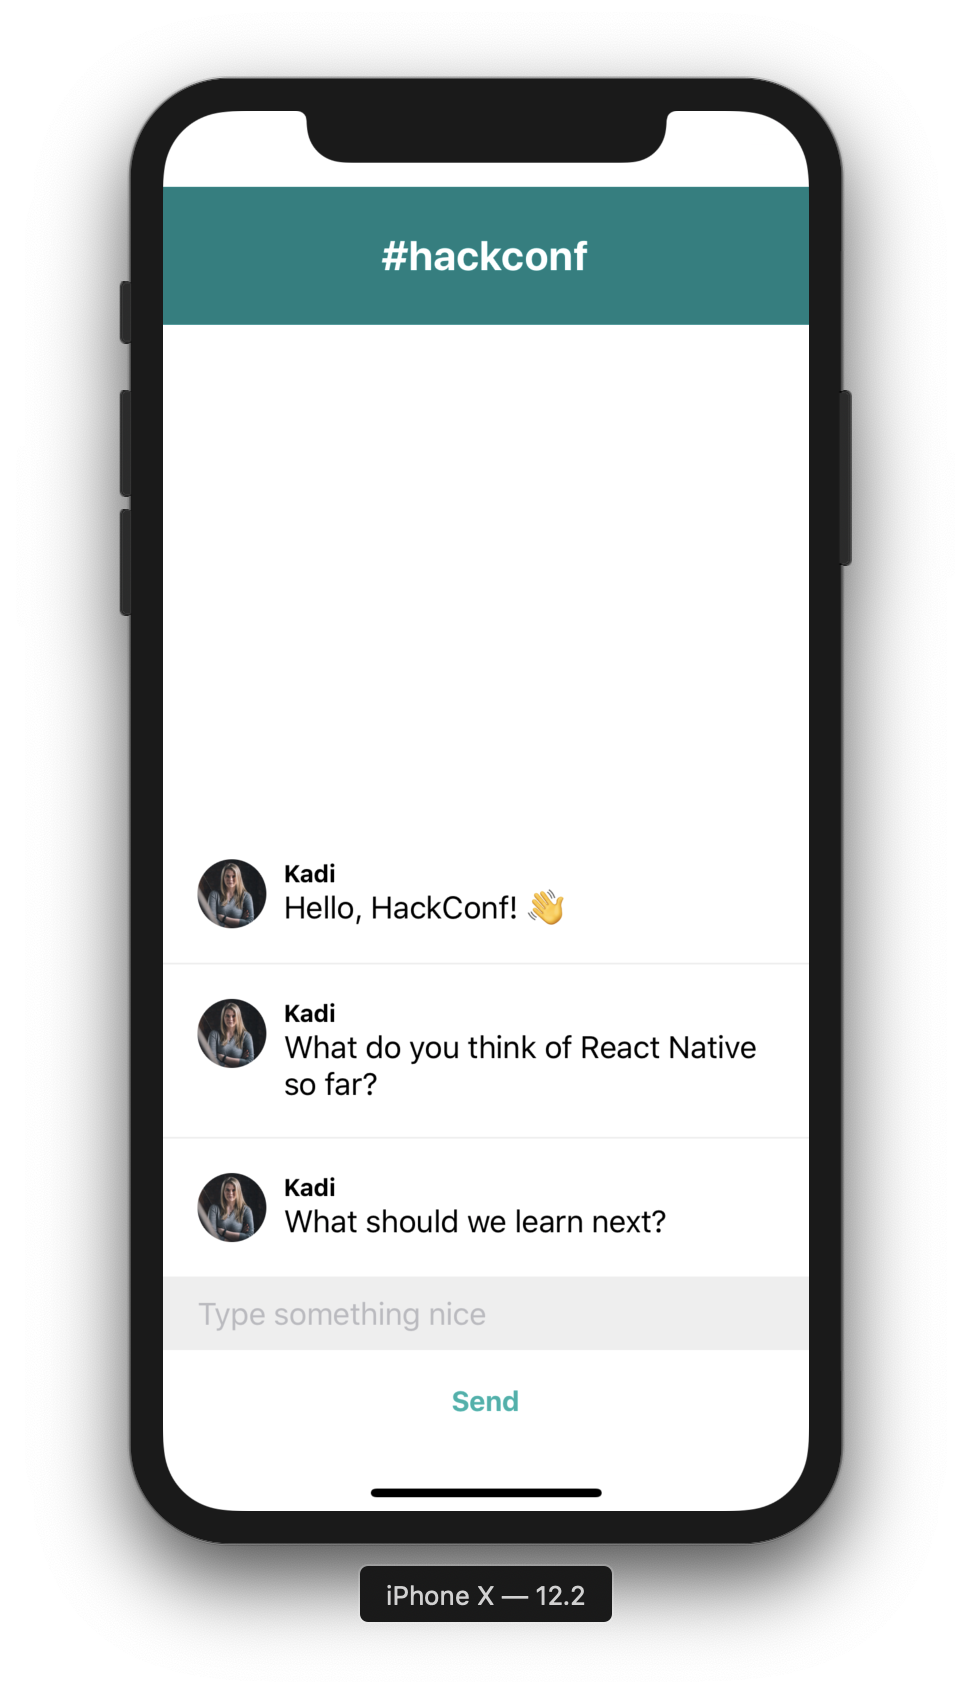
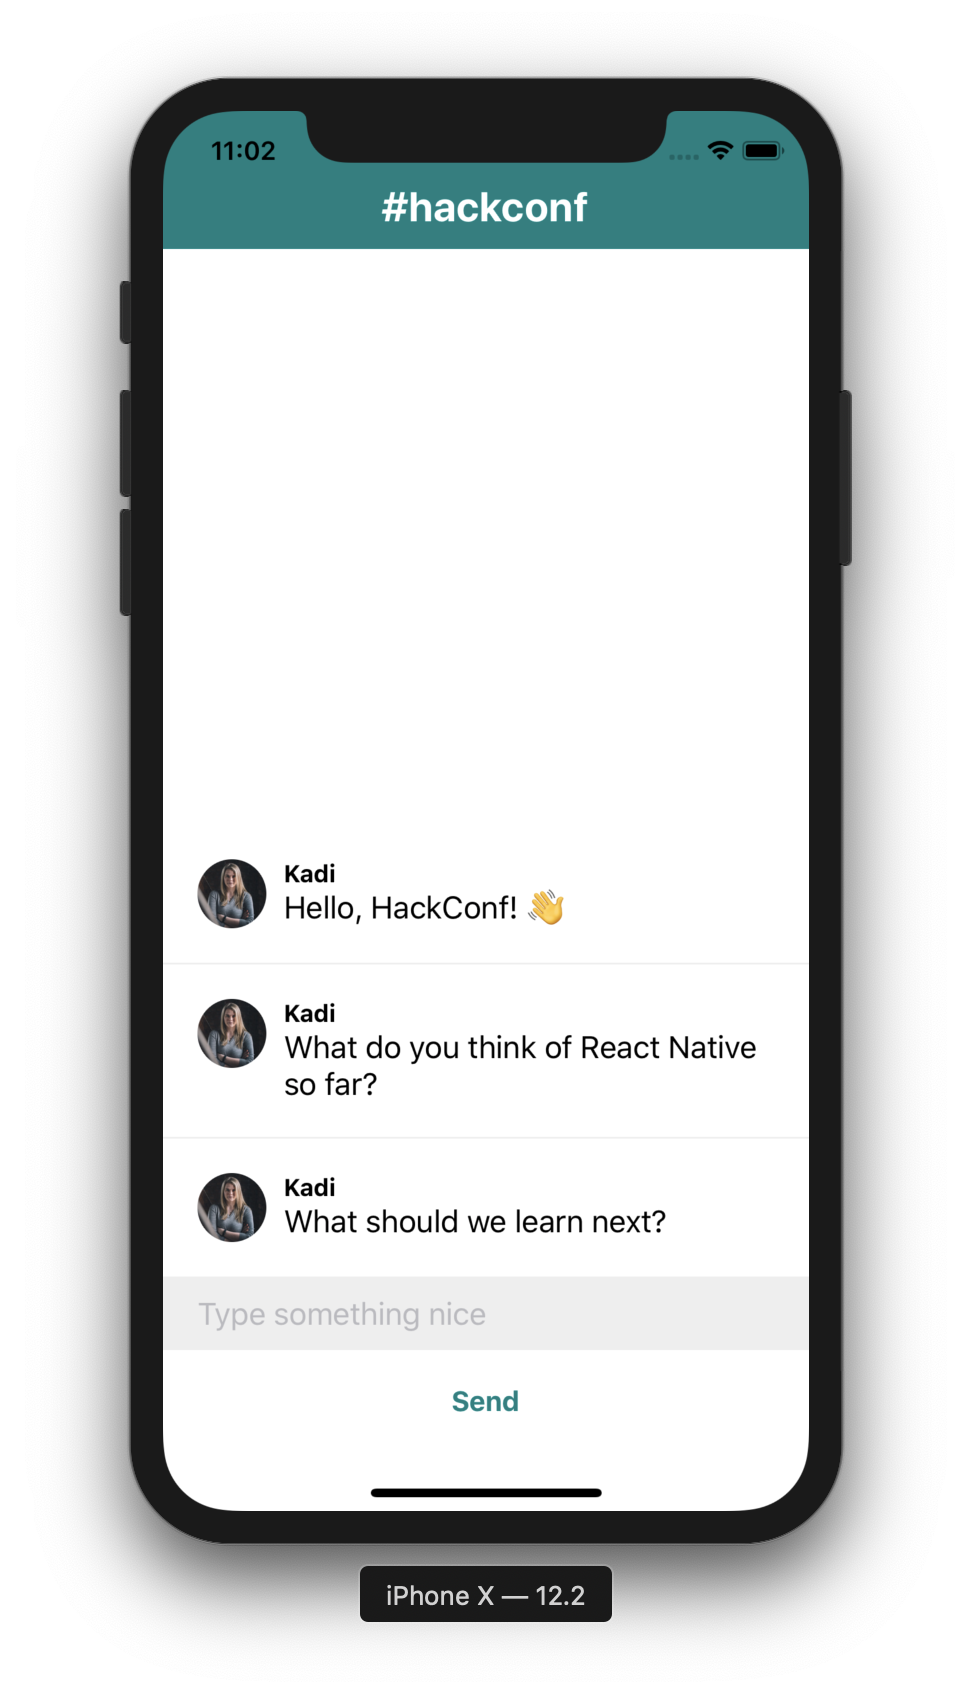
Fix header and add credits

Changed region(s): [[0.1543, 0.0614, 0.8333, 0.2149], [0.463, 0.7981, 0.4938, 0.8288]]

diff --git a/App.js b/App.js
@@ -50,28 +50,30 @@ export default function App() {
   }, [text]);
 
   return (
-    <SafeAreaView style={styles.container}>
+    <>
       <Header title={CHANNEL} />
-      <FlatList
-        data={messages}
-        renderItem={renderItem}
-        inverted
-      />
-      <KeyboardAvoidingView behavior='padding'>
-        <View style={styles.footer}>
-          <TextInput
-            value={text}
-            onChangeText={setText}
-            style={styles.input}
-            underlineColorAndroid='transparent'
-            placeholder='Type something nice'
-          />
-        </View>
-        </KeyboardAvoidingView>
-      <TouchableOpacity onPress={sendMessage}>
-        <Text style={styles.send}>Send</Text>
-      </TouchableOpacity>
-    </SafeAreaView>
+      <SafeAreaView style={styles.container}>
+        <FlatList
+          data={messages}
+          renderItem={renderItem}
+          inverted
+        />
+        <KeyboardAvoidingView behavior='padding'>
+          <View style={styles.footer}>
+            <TextInput
+              value={text}
+              onChangeText={setText}
+              style={styles.input}
+              underlineColorAndroid='transparent'
+              placeholder='Type something nice'
+            />
+          </View>
+          </KeyboardAvoidingView>
+        <TouchableOpacity onPress={sendMessage}>
+          <Text style={styles.send}>Send</Text>
+        </TouchableOpacity>
+      </SafeAreaView>
+    </>
   );
 }
 

diff --git a/Header.js b/Header.js
@@ -14,7 +14,8 @@ const styles = StyleSheet.create({
     height: 80,
     backgroundColor: 'teal',
     alignItems: 'center',
-    justifyContent: 'center'
+    justifyContent: 'flex-end',
+    padding: 10,
   },
   title: {
     color: 'white',

diff --git a/lessons/10-add-header.md b/lessons/10-add-header.md
@@ -22,7 +22,7 @@ export default (props) => (
 const styles = StyleSheet.create({
   header: {
     height: 80,
-    backgroundColor: 'lightseagreen',
+    backgroundColor: 'teal',
     alignItems: 'center',
     justifyContent: 'flex-end',
     padding: 10,
@@ -43,12 +43,16 @@ Because we `export` the Header component, it means we can `import` it in our mai
 import Header from './Header';
 ```
 
-Then you can just drop in the Header component above the list and pass the channel name as the `title` prop. You should now see a Header on the screen!
+Then you can just drop in the Header component above the `SafeAreaView` and pass the channel name as the `title` prop. You should now see a Header on the screen!
 ```diff
     return (
-      <SafeAreaView style={styles.container}>
-+        <Header title={CHANNEL} />
++     <>
++       <Header title={CHANNEL} />
+        <SafeAreaView style={styles.container}>
+      // rest of code
++     <>
 ```
+Note about `<></>` - in React (and subsequently React Native), every component must be wrapped in a single JSX element. If we want to return one or more adjacent element, we can wrap them in Fragments. `<>` is simply a shorthand for `<Fragment>`.
 
 Speaking of [Props](https://facebook.github.io/react-native/docs/props.html), we briefly touched on them earlier, but this is the first time we are using them in our own components.
 

diff --git a/README.md b/README.md
@@ -17,13 +17,11 @@ Work the tutorial at your own pace. The instructions below assume that you are c
 9. [Sending messages](./lessons/9-sending-messages.md)
 10. [Add a header](./lessons/10-add-header.md)
 11. [Avatars](./lessons/11-avatars.md)
-
-That's it for the main part of the tutorial! If you've sped through all these, here are some stretch goals:
-12. [Components](./lessons/12-components.md)
-13. [Navigation](./lessons/13-navigation.md)
-14. [Switch between channels](./lessons/14-switch-channels.md)
-15. [Edit name and avatar](./lessons/15-edit-name.md)
-16. [Publish](./lessons/16-publish.md)
+12. [Components](./lessons/12-components.md) (stretch goal)
+13. [Navigation](./lessons/13-navigation.md) (stretch goal)
+14. [Switch between channels](./lessons/14-switch-channels.md) (stretch goal)
+15. [Edit name and avatar](./lessons/15-edit-name.md) (stretch goal)
+16. [Publish](./lessons/16-publish.md) (stretch goal)
 
 ## Resources
 - [React Native docs](https://facebook.github.io/react-native/)
@@ -49,3 +47,6 @@ That's it for the main part of the tutorial! If you've sped through all these, h
   - [Detox (end to end testing)](https://github.com/wix/Detox)
 - AR / VR
   [Viro](https://viromedia.com/viroreact)
+
+
+This workshop is the React 16.8 (hooks) version of [React Native Chat Tutorial](https://github.com/jevakallio/react-native-chat-tutorial).
